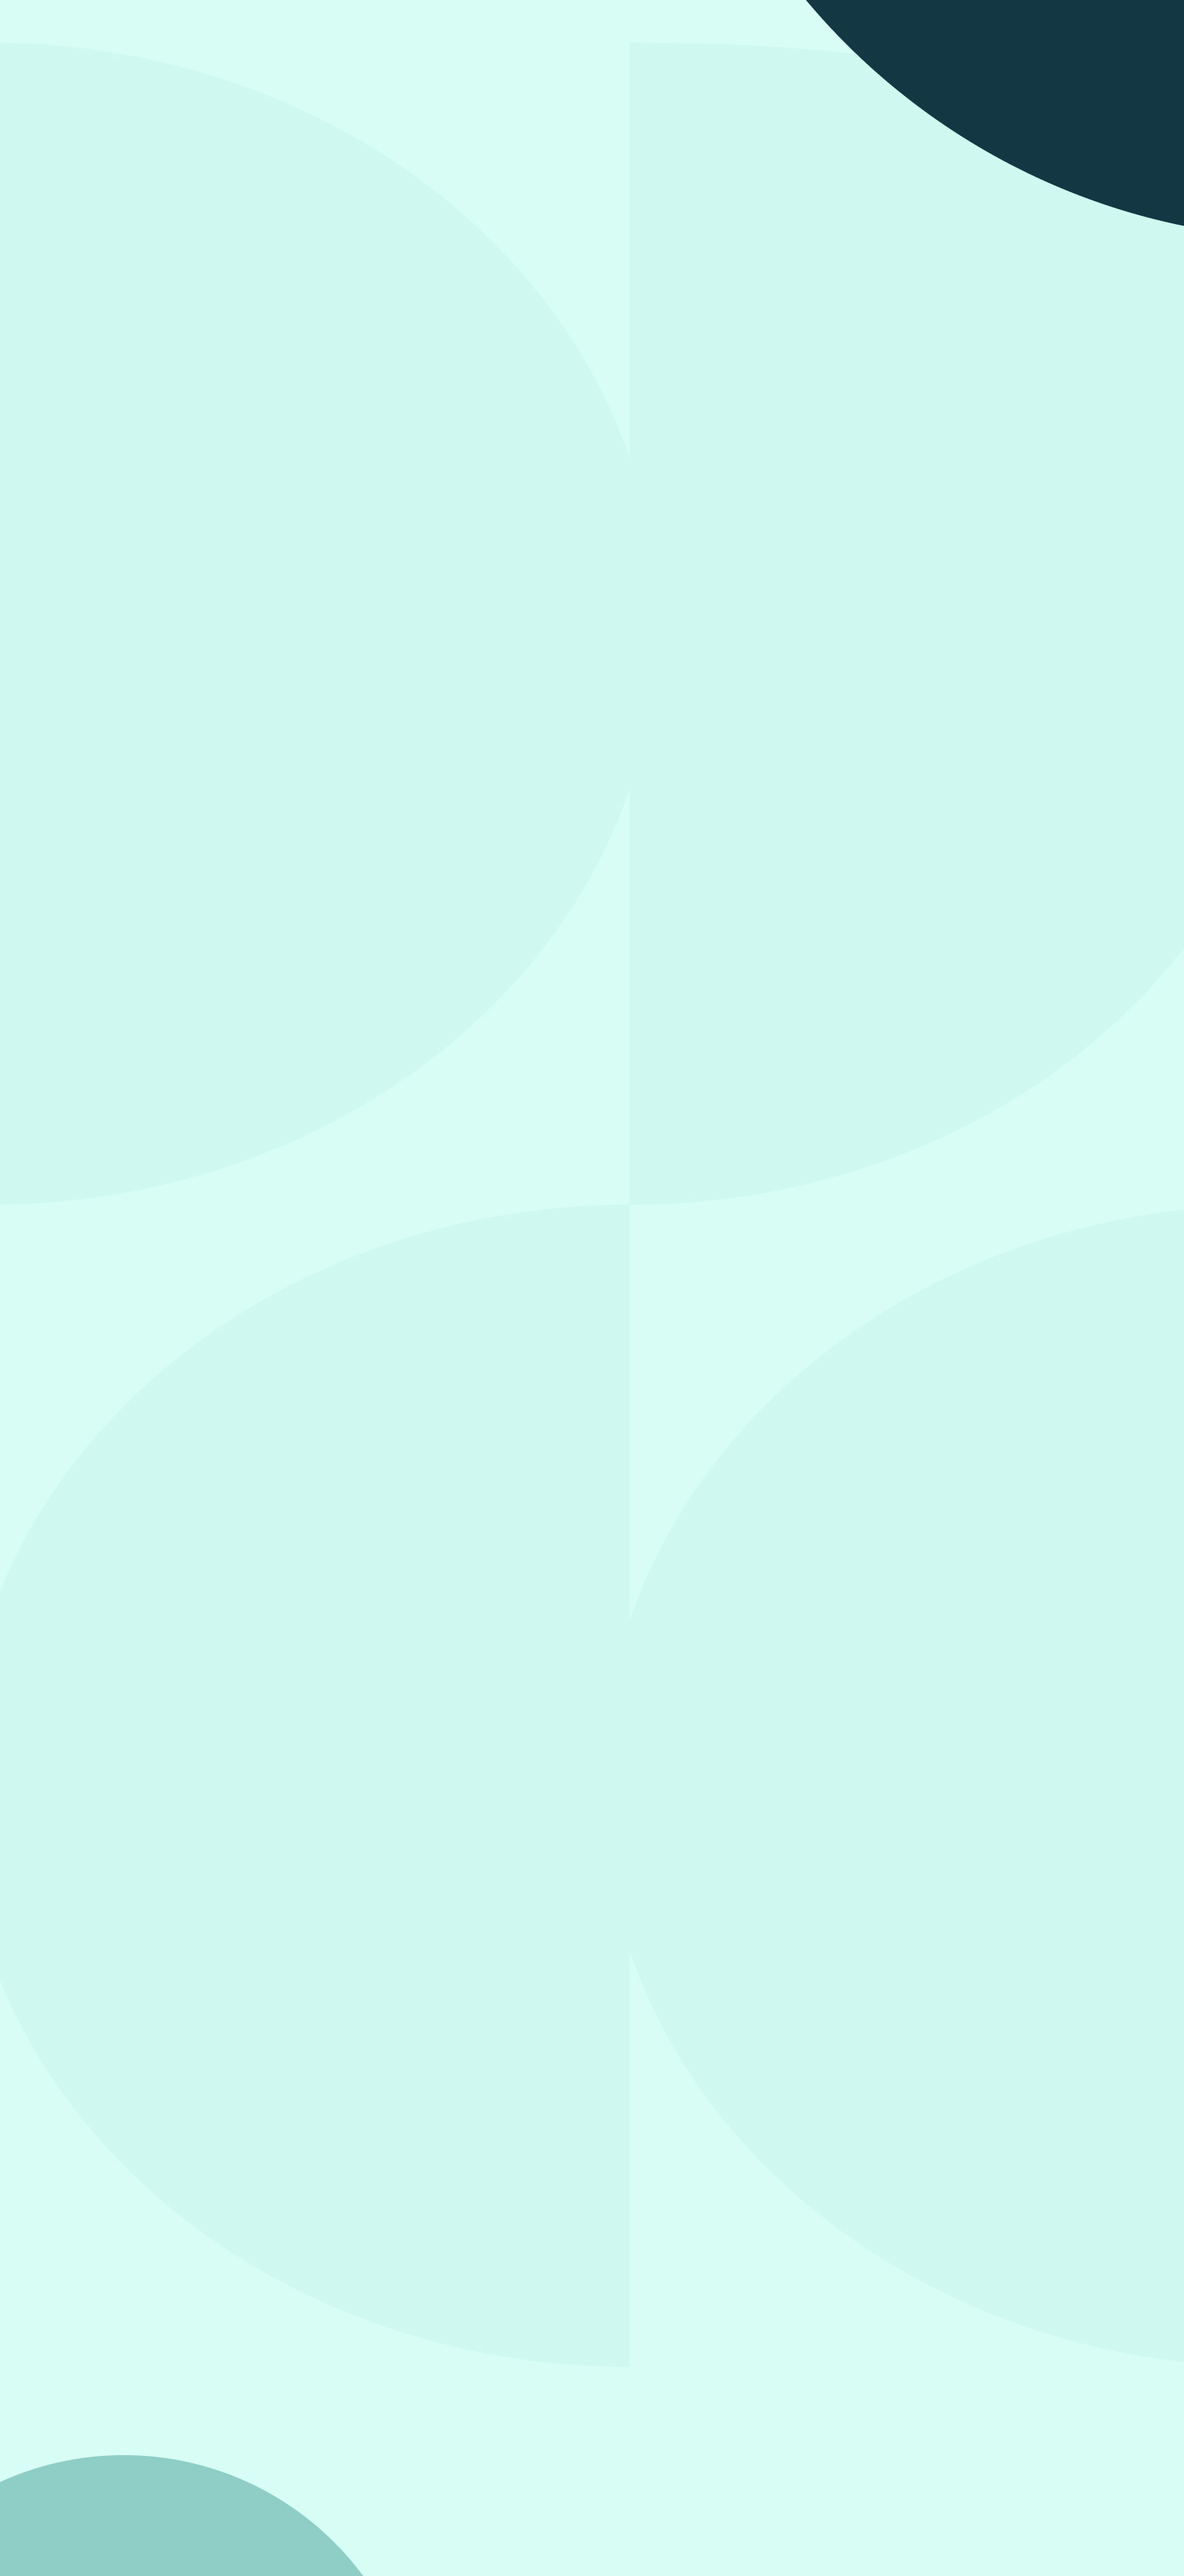
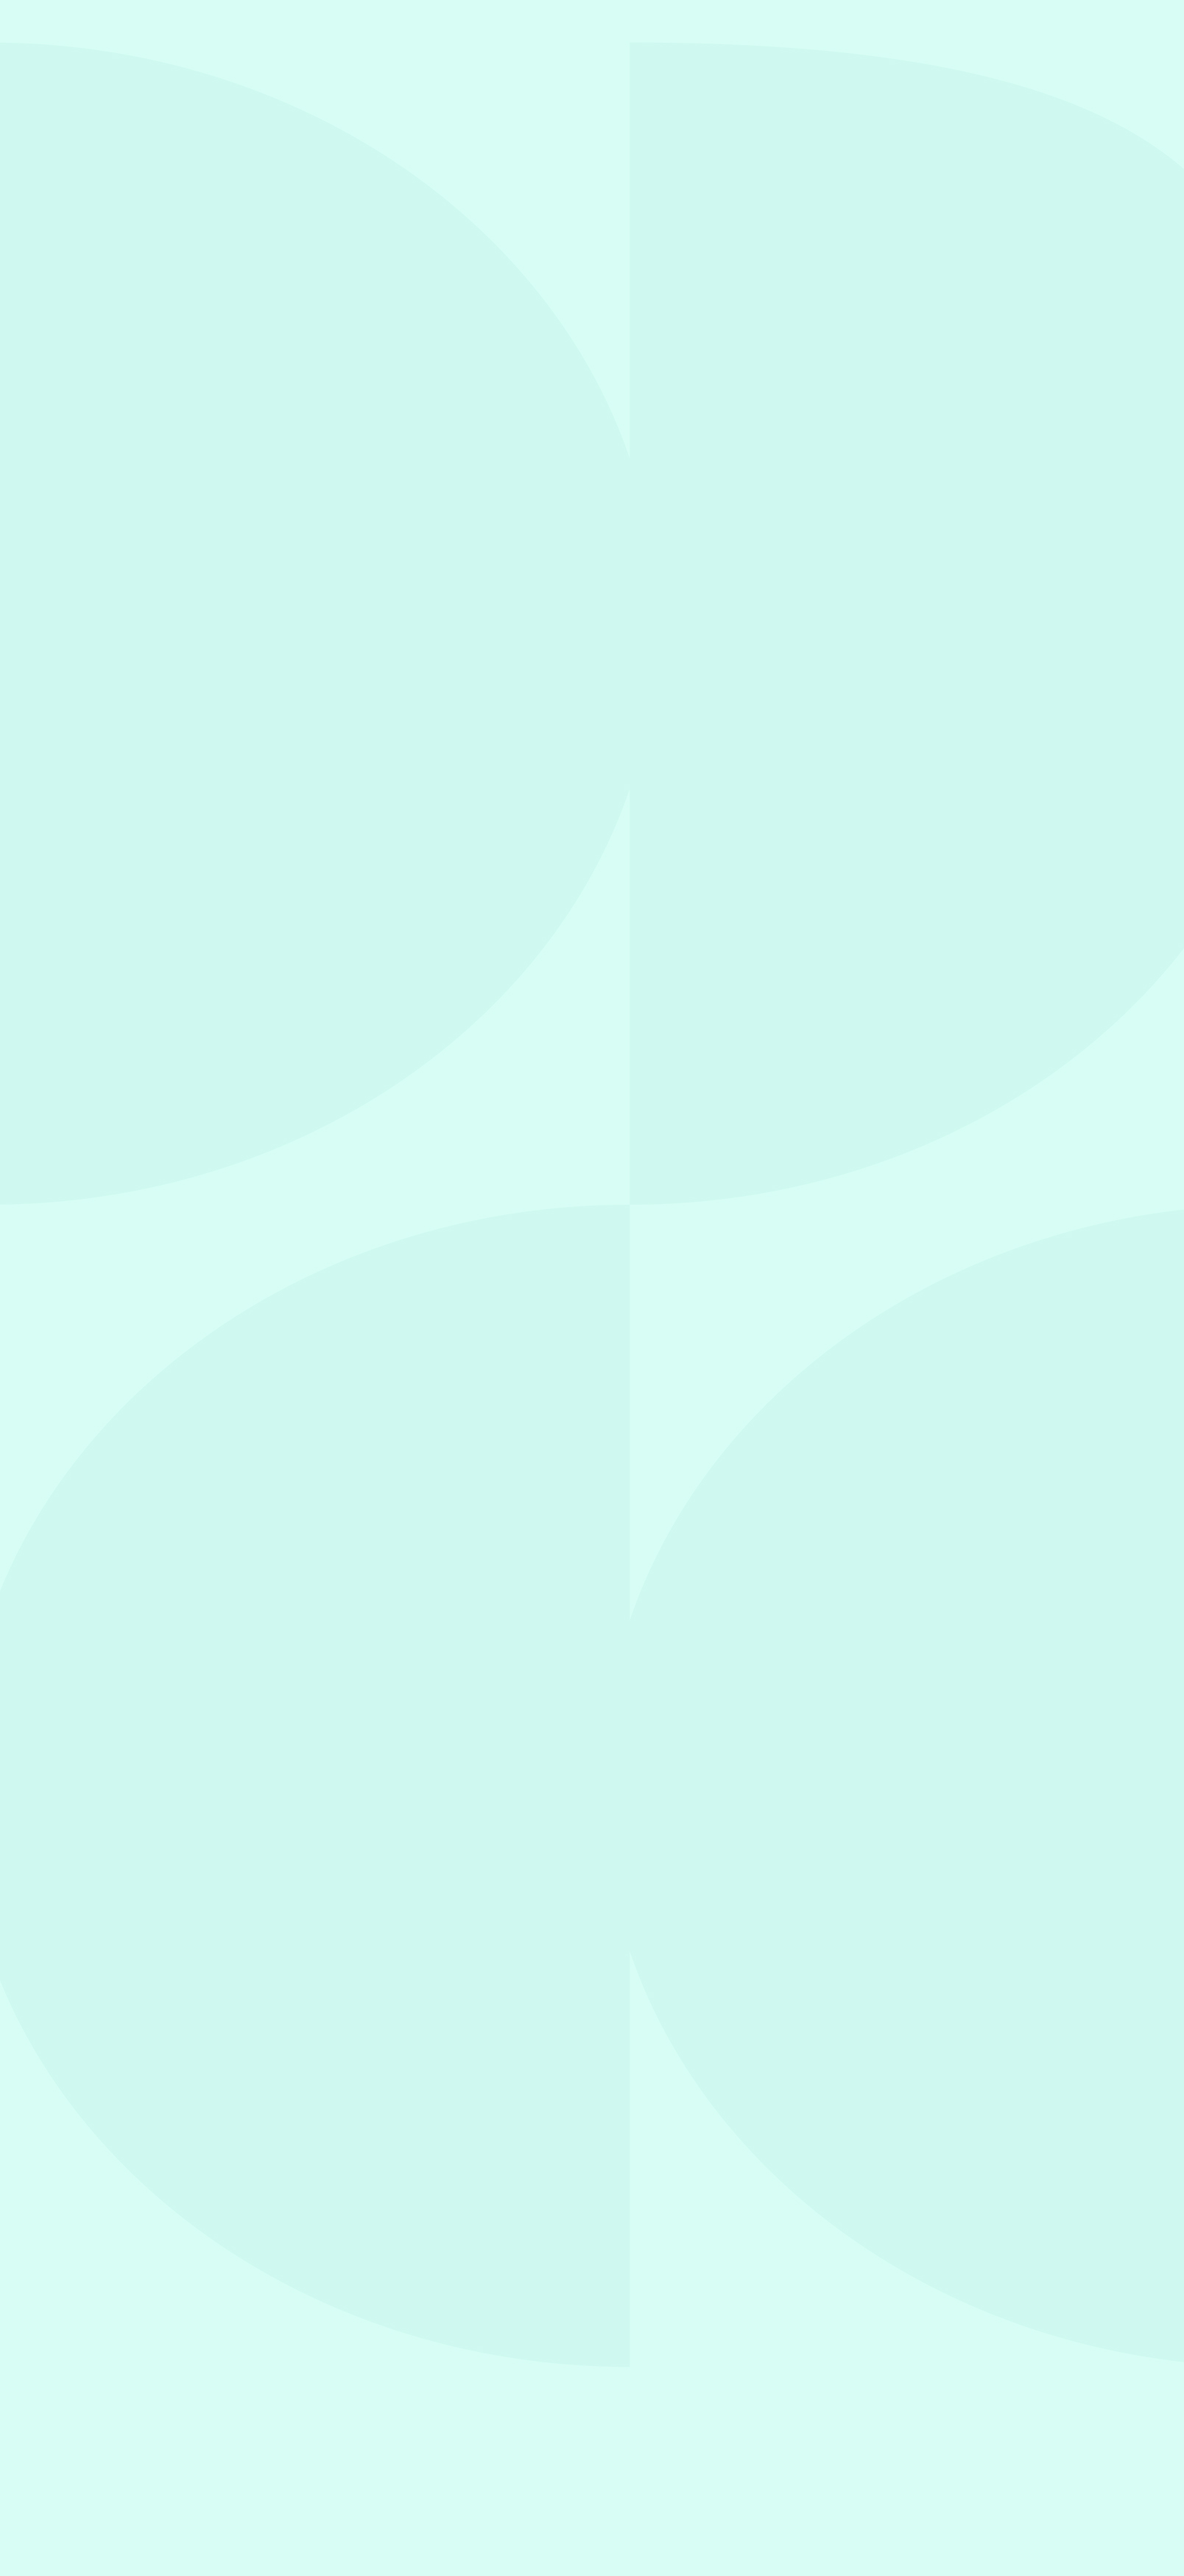
change images

Changed region(s): [[0.0, 0.9354, 0.3109, 1.0], [0.6841, 0.0, 1.0, 0.0935]]

diff --git a/app/components/UnifiedSurvey.tsx b/app/components/UnifiedSurvey.tsx
@@ -125,6 +125,13 @@ export default function UnifiedSurvey() {
   }, []);
 
   useEffect(() => {
+    // Set Prompt 1 as default selected when questions are loaded
+    if (questions.length > 0 && !selectedQuestion) {
+      setSelectedQuestion(questions[0].id);
+    }
+  }, [questions, selectedQuestion]);
+
+  useEffect(() => {
     if (selectedQuestion) {
       const filtered = approvedAnswers.filter(
         (answer) => answer.questionId === selectedQuestion
@@ -172,7 +179,15 @@ export default function UnifiedSurvey() {
       );
 
       setApprovedAnswers(sorted);
-      setFilteredAnswers(sorted);
+      
+      // Set filtered answers to show only Prompt 1 data by default
+      if (questionsData.length > 0) {
+        const prompt1Id = questionsData[0].id;
+        const prompt1Answers = sorted.filter(answer => answer.questionId === prompt1Id);
+        setFilteredAnswers(prompt1Answers);
+      } else {
+        setFilteredAnswers(sorted);
+      }
     } catch (error) {
       console.error("Error loading answers:", error);
     } finally {
